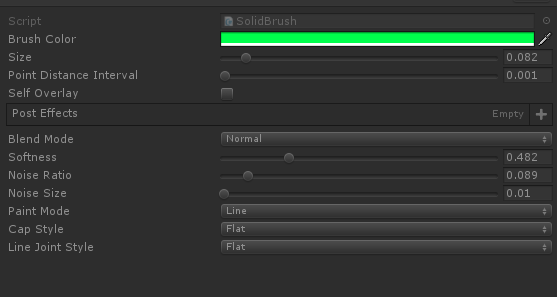
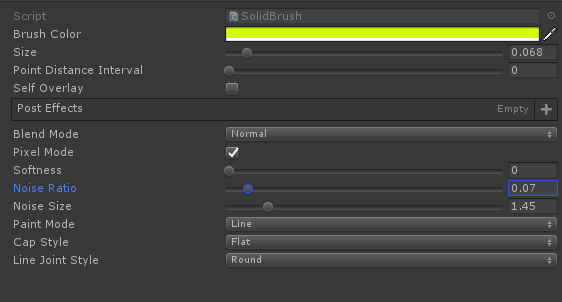
update README.md

diff --git a/README.md b/README.md
@@ -128,6 +128,13 @@ Paint solid color to texture
 > Some blend modes  
 > </div> 
 >  
+> <b>Pixel Mode:</b> If true, the input uv will be modify clamp to pixel cell,  the layer filter mode must be point, then can get perfect effect, and you need set a correct layer and brush size    
+> <div align=center>  
+> <img src="./images/brush-1-9.png"> </img>  
+> <br/>  
+> Pixel mode  
+> </div> 
+>  
 > <b>Softness:</b> softness of brush,useful highlight effect, value Range(0,1),default is 0    
 > <div align=center>  
 > <img src="./images/brush-1-3.png"> </img>  
